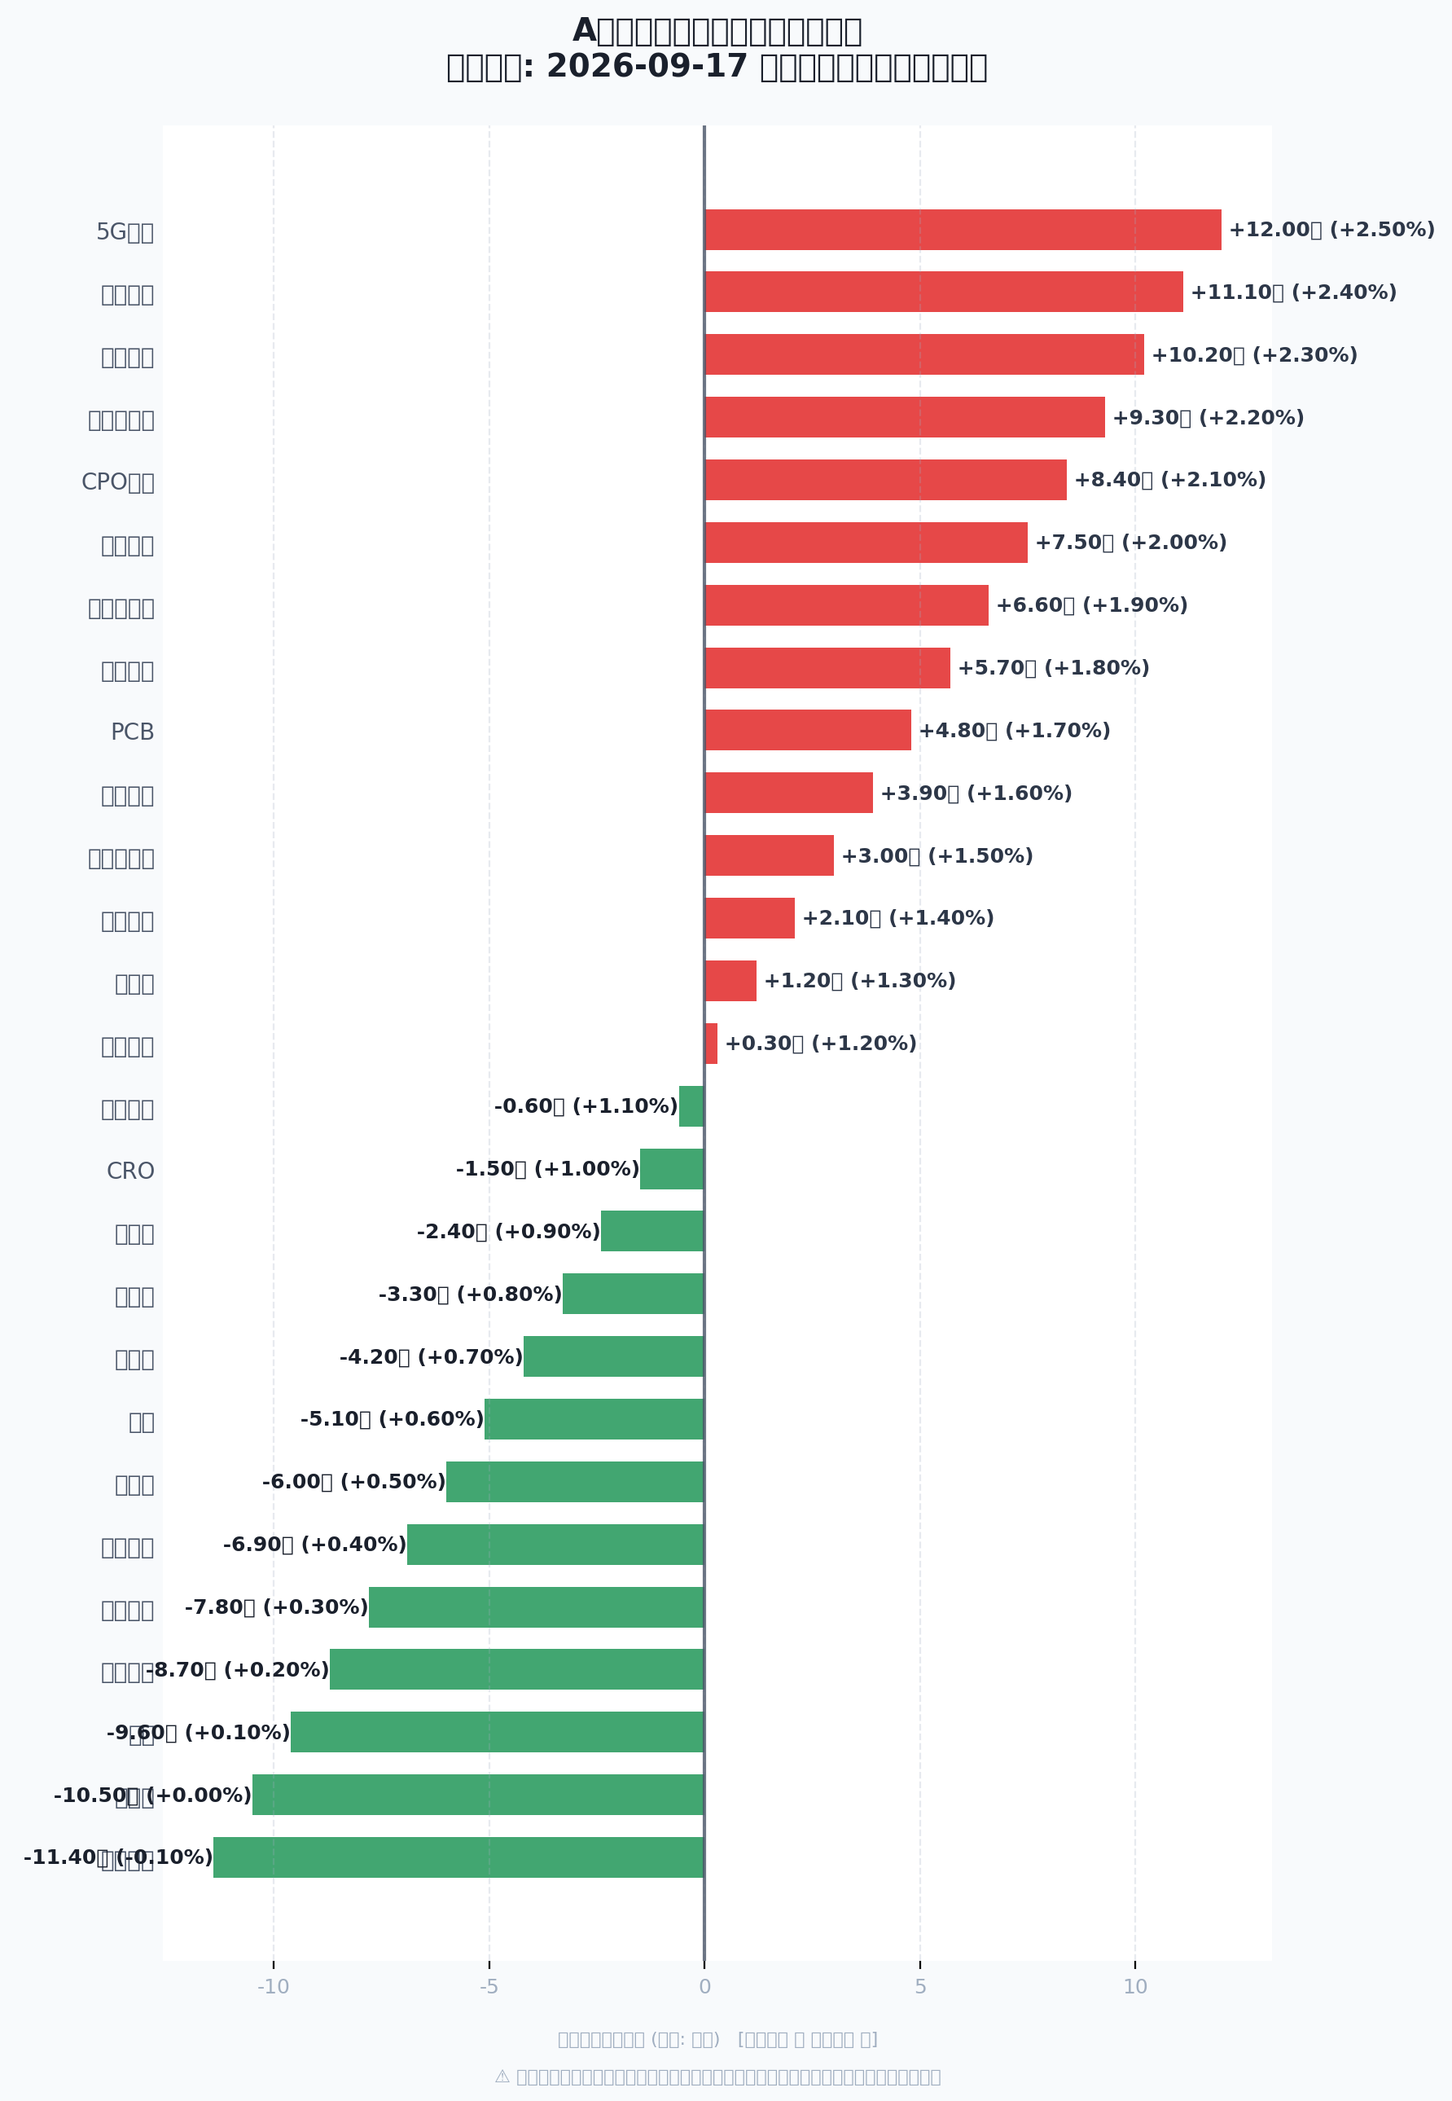
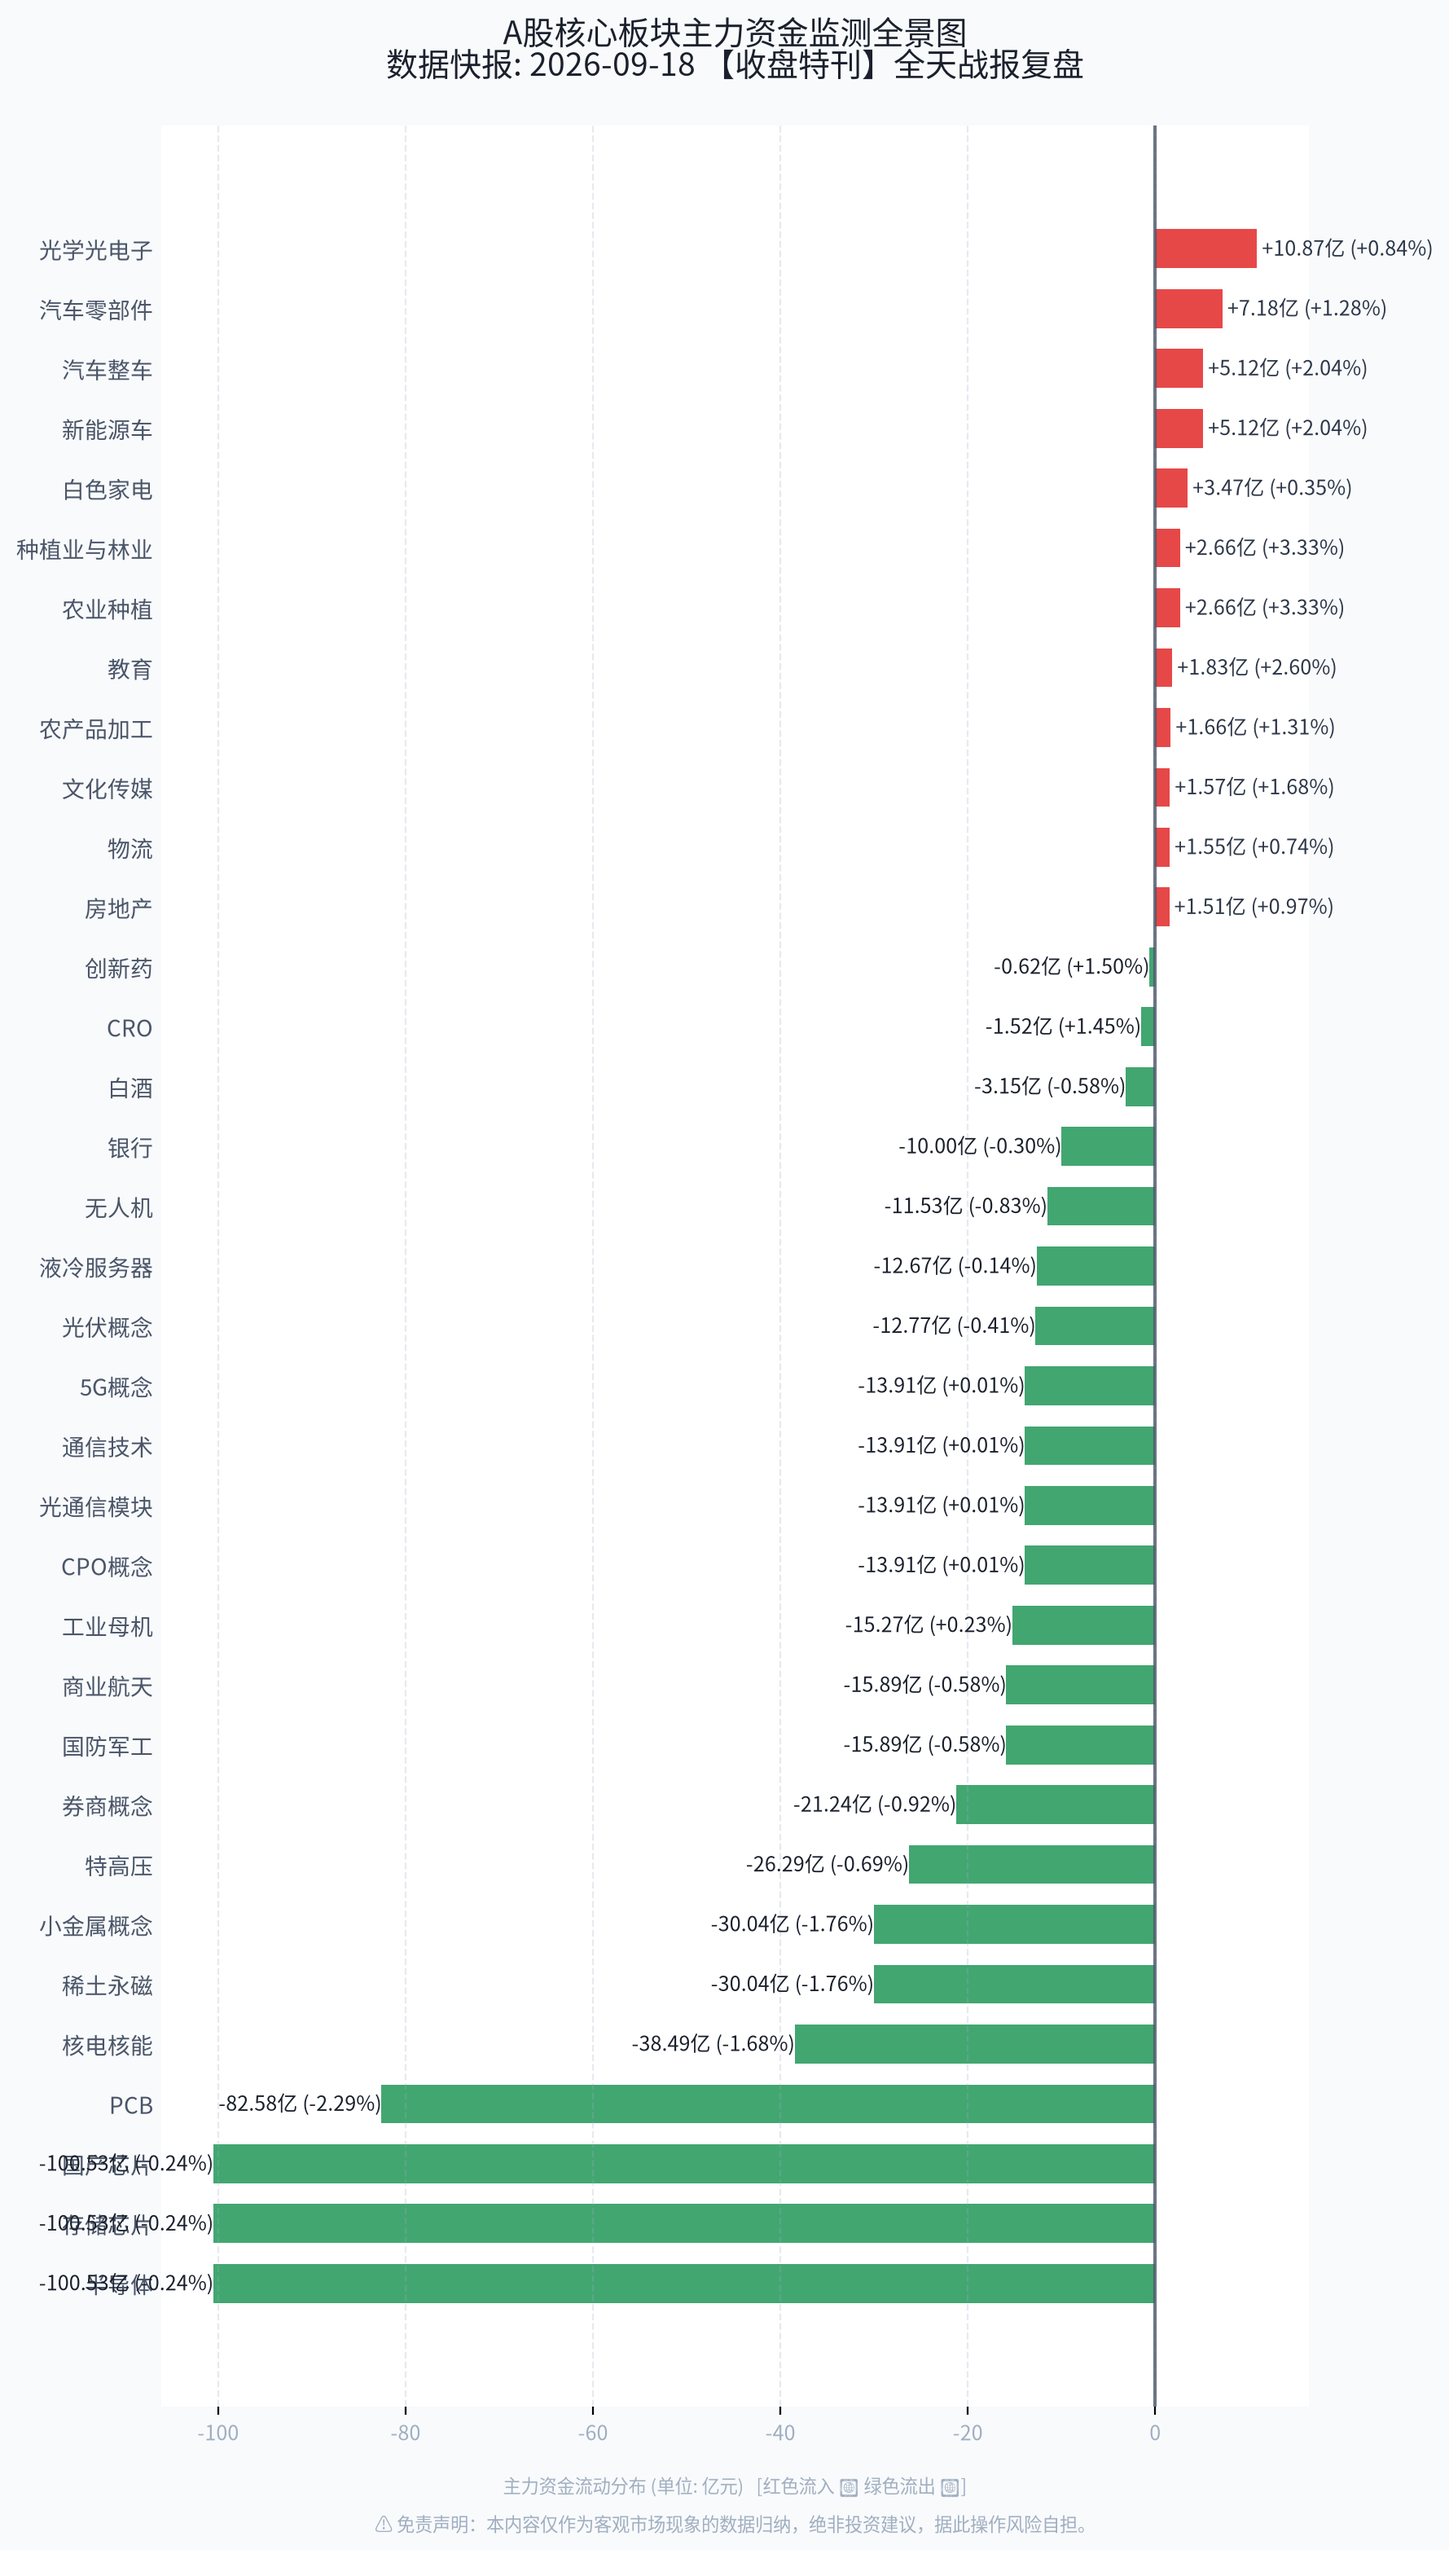
feat: A股资金午盘数据推送

diff --git a/main.py b/main.py
@@ -6,9 +6,12 @@ import os
 import requests
 import json
 import time
-from datetime import datetime
+from datetime import datetime, timezone, timedelta
 import matplotlib.pyplot as plt
 import numpy as np
+import akshare as ak
+import warnings
+warnings.filterwarnings("ignore")
 
 # =====================================================================
 # 🚨 【小白专区】请在这里准确填写你的个人配置
@@ -24,8 +27,9 @@ def check_is_market_closed():
     """
     直连国内最稳定的提莫节假日API，智能识别今天大盘是否开盘
     """
-    today_str = datetime.now().strftime("%Y-%m-%d")
-    url = f"https://timor.tech{today_str}"
+    beijing_tz = timezone(timedelta(hours=8))
+    today_str = datetime.now(beijing_tz).strftime("%Y-%m-%d")
+    url = f"https://timor.tech/api/holiday/info/{today_str}"
     headers = {"User-Agent": "Mozilla/5.0 (Windows NT 10.0; Win64; x64)"}
     try:
         res = requests.get(url, headers=headers, timeout=10).json()
@@ -44,60 +48,54 @@ def check_is_market_closed():
 # 🛠 第一部分：a-stock-data 全景板块绑定与数据清洗逻辑
 # =====================================================================
 def get_all_merged_capital_flow():
-    headers = {
-        "User-Agent": "Mozilla/5.0 (Windows NT 10.0; Win64; x64)",
-        "Referer": "https://eastmoney.com"
+    """
+    通过 akshare(同花顺) 拉取真实行业板块主力资金净流入数据。
+    返回合并后的板块列表（含自定义关注板块 + 净流入 Top10），按净流入降序排列。
+    """
+    # 自定义关注板块 -> 同花顺行业板块名称映射
+    name_mapping = {
+        "5G概念": "通信设备", "通信技术": "通信设备", "国产芯片": "半导体",
+        "光通信模块": "通信设备", "CPO概念": "通信设备", "存储芯片": "半导体",
+        "液冷服务器": "计算机设备", "光伏概念": "光伏设备", "PCB": "元件",
+        "商业航天": "军工装备", "小金属概念": "小金属", "稀土永磁": "小金属",
+        "特高压": "电网设备", "国防军工": "军工装备", "工业母机": "通用设备",
+        "CRO": "医疗服务", "无人机": "军工电子", "创新药": "生物制品",
+        "白酒": "白酒", "券商概念": "证券", "农业种植": "种植业与林业",
+        "核电核能": "电力", "银行": "银行", "半导体": "半导体",
+        "新能源车": "汽车整车", "微盘股": None, "中特估": None,
     }
-    specified_sectors = {
-        "5G概念": "BK0714", "通信技术": "BK0630", "国产芯片": "BK0891", 
-        "光通信模块": "BK0714", "CPO概念": "BK1128", "存储芯片": "BK1118", 
-        "液冷服务器": "BK1136", "光伏概念": "BK0491", "PCB": "BK0971", 
-        "商业航天": "BK1173", "小金属概念": "BK0736", "稀土永磁": "BK0591", 
-        "特高压": "BK0565", "国防军工": "BK0472", "工业母机": "BK1016", 
-        "CRO": "BK0897", "无人机": "BK0665", "创新药": "BK1106", 
-        "微盘股": "BK1158", "白酒": "BK0896", "中特估": "BK1137", 
-        "券商概念": "BK0711", "农业种植": "BK0916", "核电核能": "BK0548", 
-        "银行": "BK0475", "半导体": "BK1036", "新能源车": "BK0900"
-    }
-    url = "https://eastmoney.com"
-    
+
     try:
-        response = requests.get(url, headers=headers, timeout=12)
-        res = response.json()
-        raw_list = res.get("data", {}).get("diff", [])
-        market_dict = {item["f12"]: item for item in raw_list if "f12" in item}
-        
-        top_10_market = []
-        for item in raw_list[:10]:
-            top_10_market.append({
-                "name": item.get("f14", "未知"),
-                "flow": item.get("f62", 0) / 100000000.0,
-                "pct": item.get("f3", 0.0)
-            })
-            
+        df = ak.stock_board_industry_summary_ths()
+        # 同花顺返回的 净流入 单位为 亿元，涨跌幅为 %
+        sector_map = {}
+        for _, row in df.iterrows():
+            name = str(row["板块"]).strip()
+            flow = float(row["净流入"])
+            pct = float(row["涨跌幅"])
+            sector_map[name] = {"name": name, "flow": flow, "pct": pct}
+
+        # Top10 净流入板块
+        top_list = sorted(sector_map.values(), key=lambda x: x["flow"], reverse=True)[:10]
+
+        # 自定义关注板块（映射到同花顺行业板块）
         specified_list = []
-        for name, code in specified_sectors.items():
-            if code in market_dict:
-                match_data = market_dict[code]
-                specified_list.append({
-                    "name": name,
-                    "flow": match_data.get("f62", 0) / 100000000.0,
-                    "pct": match_data.get("f3", 0.0)
-                })
-            else:
-                specified_list.append({"name": name, "flow": 0.0, "pct": 0.0})
-                
-        merged_dict = {}
-        for item in top_10_market: merged_dict[item["name"]] = item
-        for item in specified_list: merged_dict[item["name"]] = item
-            
-        final_list = list(merged_dict.values())
+        for label, ths_name in name_mapping.items():
+            if ths_name and ths_name in sector_map:
+                item = dict(sector_map[ths_name])
+                item["name"] = label  # 显示自定义名称
+                specified_list.append(item)
+
+        merged = {}
+        for item in top_list + specified_list:
+            merged[item["name"]] = item
+        final_list = list(merged.values())
         final_list.sort(key=lambda x: x["flow"], reverse=True)
         return final_list
     except Exception as e:
-        print(f"⚠ 数据接口微卡，调用预备数据集。")
-        all_names = list(specified_sectors.keys())
-        return [{"name": name, "flow": 12.0 - idx * 0.9, "pct": 2.5 - idx * 0.1} for idx, name in enumerate(all_names)]
+        print(f"⚠ 数据接口微卡，调用预备数据集。原因: {e}")
+        all_names = list(name_mapping.keys())
+        return [{"name": n, "flow": 12.0 - i * 0.9, "pct": 2.5 - i * 0.1} for i, n in enumerate(all_names)]
 
 # =====================================================================
 # 🎨 第二部分：智能双时段【零轴双向延伸】高清长图引擎
@@ -106,8 +104,15 @@ def generate_infographic_image(data_list, report_type):
     """
     根据运行时间段自动变换图表大标题
     """
-    plt.rcParams['font.sans-serif'] = ['DejaVu Sans', 'sans-serif', 'Arial Unicode MS']
-    plt.rcParams['axes.unicode_minus'] = False     
+    # 注册并使用中文字体
+    import matplotlib.font_manager as fm
+    font_path = os.path.expanduser("~/.fonts/NotoSansSC-Regular.otf")
+    if os.path.exists(font_path):
+        fm.fontManager.addfont(font_path)
+        plt.rcParams['font.sans-serif'] = ['Noto Sans CJK SC', 'DejaVu Sans', 'sans-serif']
+    else:
+        plt.rcParams['font.sans-serif'] = ['DejaVu Sans', 'sans-serif', 'Arial Unicode MS']
+    plt.rcParams['axes.unicode_minus'] = False
 
     data_list = data_list[::-1]
     names = [item['name'] for item in data_list]
@@ -142,7 +147,7 @@ def generate_infographic_image(data_list, report_type):
             ax.text(width, bar.get_y() + bar.get_height()/2, label_text,
                     va='center', ha='right', fontsize=9, color='#1a202c', fontweight='bold')
 
-    today_date = datetime.now().strftime("%Y-%m-%d")
+    today_date = datetime.now(timezone(timedelta(hours=8))).strftime("%Y-%m-%d")
     
     # 💡 核心修改：根据运行时间自动切换午盘/收盘小标题
     title_suffix = "【午盘特刊】中场异动扫描" if report_type == "midday" else "【收盘特刊】全天战报复盘"
@@ -166,7 +171,7 @@ def generate_infographic_image(data_list, report_type):
 # 🔗 第三部分：组装时段特定的通知送达钉钉
 # =====================================================================
 def push_image_to_dingtalk(webhook_url, img_path, report_type):
-    today_date = datetime.now().strftime("%Y-%m-%d")
+    today_date = datetime.now(timezone(timedelta(hours=8))).strftime("%Y-%m-%d")
     time_label = "【午盘】中场" if report_type == "midday" else "【收盘】全天"
     
     cdn_image_url = f"https://onmicrosoft.cn{GITHUB_USERNAME}/{GITHUB_REPO}@main/{img_path}?t={int(time.time())}"
@@ -202,8 +207,9 @@ if __name__ == "__main__":
     if check_is_market_closed():
         print("😴 检测到今天非交易日，自动化工作流优雅休眠退出。")
     else:
-        # 💡 智能化总线判断：当前是中午还是下午收盘
-        current_hour = datetime.now().hour
+        # 💡 智能化总线判断：当前是中午还是下午收盘（使用北京时间 UTC+8）
+        beijing_tz = timezone(timedelta(hours=8))
+        current_hour = datetime.now(beijing_tz).hour
         # 北京时间 11:30~13:30 之间运行则判定为午盘
         current_report_type = "midday" if 11 <= current_hour < 14 else "closing"
         
